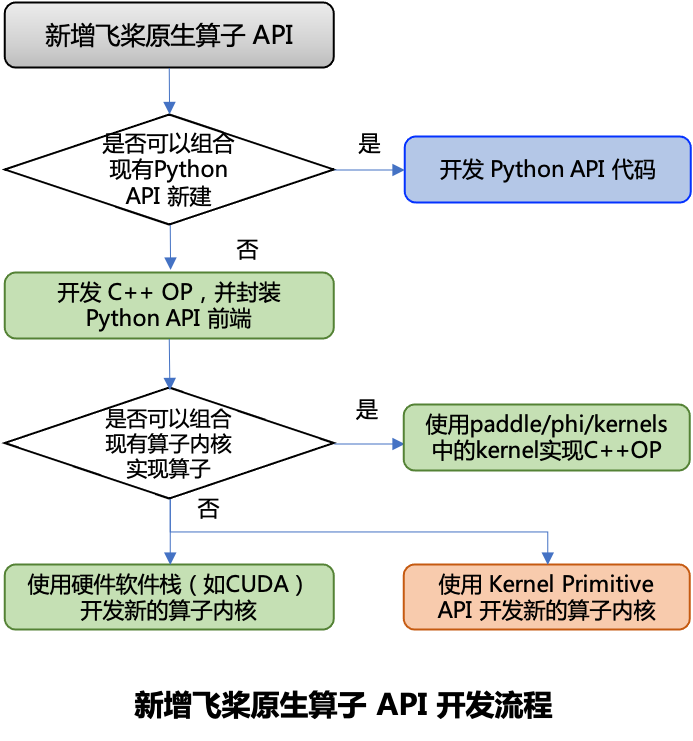
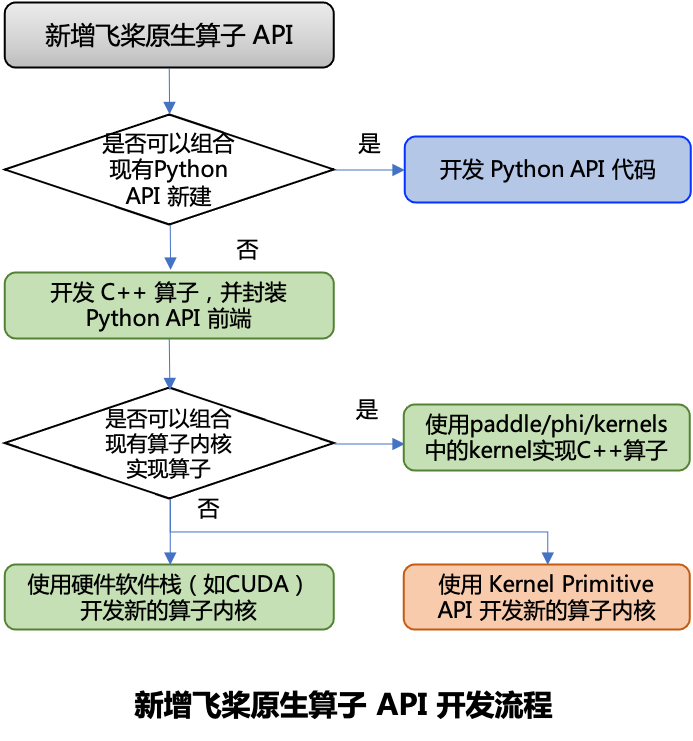
fix bugs
fix bugs

Changed region(s): [[0.0606, 0.3725, 0.4242, 0.4345], [0.6061, 0.5897, 0.9697, 0.6208]]

diff --git a/docs/dev_guides/api_contributing_guides/new_python_api_cn.md b/docs/dev_guides/api_contributing_guides/new_python_api_cn.md
@@ -2,8 +2,8 @@
 
 新增飞桨 API 主要包含两种情况：
 
-1. 不需要开发新的 C++ 算子（Operator，OP），可以用其他 Python API 组合得到新的 API，只写 Python 代码即可。
-2. 需要开发新的 C++ 算子，需要用 C++ 开发 OP 实现代码、再封装 Python API 代码。
+1. 不需要开发新的 C++ 算子，可以用其他 Python API 组合得到新的 API，只写 Python 代码即可。
+2. 需要开发新的 C++ 算子，需要用 C++ 开发算子实现代码、再封装 Python API 代码。
 
 两种情况下均有 Python 端的开发工作。本文将介绍开发新的飞桨 API 时，需要完成的 Python 端开发内容以及注意事项。
 
@@ -81,14 +81,14 @@ def zeros(shape, dtype=None, name=None):
 
 如果 API 的实现中需要调用 C++ 算子，则需要分别实现动态图分支和静态图分支的代码。
 
-接下来以 [paddle.trace](../../api/paddle/trace_cn.html) API 的实现代码为例（示例代码路径：[python/paddle/tensor/math.py](https://github.com/PaddlePaddle/Paddle/blob/develop/python/paddle/tensor/math.py#L2790)），分别介绍动态图分支和静态图分支的开发要点：
+接下来以 [paddle.trace](../../api/paddle/trace_cn.html) API 的实现代码为例（示例代码路径：[python/paddle/tensor/math.py](https://github.com/PaddlePaddle/Paddle/blob/develop/python/paddle/tensor/math.py#L2784)），分别介绍动态图分支和静态图分支的开发要点：
 
 ```python
 def trace(x, offset=0, axis1=0, axis2=1, name=None):
     # 为了突出重点，省略部分代码
     # 动态图分支，直接调用算子对应的 Python C 函数
     if in_dygraph_mode():
-        return _C_ops.final_state_trace( x, offset, axis1, axis2 )
+        return _C_ops.trace( x, offset, axis1, axis2 )
 
     # 静态图分支
     ## 输入参数检查
@@ -115,13 +115,13 @@ def trace(x, offset=0, axis1=0, axis2=1, name=None):
 ```python
     # 动态图分支，直接调用算子对应的 Python C 函数
     if in_dygraph_mode():
-        return _C_ops.final_state_trace( x, offset, axis1, axis2 )
+        return _C_ops.trace( x, offset, axis1, axis2 )
 ```
 
-动态图分支的写法一般是调用 C++ 算子对应的 Python C 函数，示例中调用名为 `trace` 的 算子，使用 `_C_ops.final_state_trace`，然后传入参数。
+动态图分支的写法一般是调用 C++ 算子对应的 Python C 函数，示例中调用名为 `trace` 的 算子，使用 `_C_ops.trace`，然后传入参数。
 
   - `_C_ops` 是 [python/paddle/_C_ops.py](https://github.com/PaddlePaddle/Paddle/blob/develop/python/paddle/_C_ops.py)，其实现了从 Paddle 编译得到的二进制文件中 import  C++ 算子对应的 Python C 函数。
-  - `final_state_trace`是 `trace` 算子的 Python C 函数名。Python C 函数的命名方式为 `final_state_ + 算子名`。
+  - `trace` 是算子的 Python C 函数名。Python C 函数的命名直接采用算子名。
   - 参数 `( x, offset, axis1, axis2 )`需按照 [YAML 配置文件](https://github.com/PaddlePaddle/Paddle/blob/develop/paddle/phi/api/yaml/api.yaml#L185) 中定义的输入参数顺序传入，C++ 算子的输入、输出和属性等描述是通过 YAML 配置文件定义的，具体可参见 [开发 C++ 算子](new_cpp_op_cn.html) 章节介绍。
 
 > 注意：由于目前飞桨动态图正处在重构升级阶段，所以现有算子的代码会分别有新旧动态图两个代码分支，其中 `in_dygraph_mode()` 表示新动态图分支（默认），`_in_legacy_dygraph()`为旧动态图分支，**在新增算子时无需添加旧动态图分支代码**。
@@ -253,7 +253,7 @@ from a import f # it's ok, too
 
 **（2）具体做法**
 
-  - 一些常用的 Paddle API 可先参考上述方法建立别名，比如前文示例中  `paddle.trace `  API 的 `trace` 函数定义在 [Python/paddle/tensor/math.py](https://github.com/PaddlePaddle/Paddle/blob/develop/python/paddle/tensor/math.py#L2790) 中，又在 [Python/paddle/tensor/__init__.py](https://github.com/PaddlePaddle/Paddle/blob/develop/python/paddle/tensor/__init__.py) 中被 import，并且也在 [Python/paddle/__init__.py](https://github.com/PaddlePaddle/Paddle/blob/develop/python/paddle/__init__.py) 中被 import。
+  - 一些常用的 Paddle API 可先参考上述方法建立别名，比如前文示例中  `paddle.trace `  API 的 `trace` 函数定义在 [Python/paddle/tensor/math.py](https://github.com/PaddlePaddle/Paddle/blob/develop/python/paddle/tensor/math.py#L2784) 中，又在 [Python/paddle/tensor/__init__.py](https://github.com/PaddlePaddle/Paddle/blob/develop/python/paddle/tensor/__init__.py) 中被 import，并且也在 [Python/paddle/__init__.py](https://github.com/PaddlePaddle/Paddle/blob/develop/python/paddle/__init__.py) 中被 import。
 
 ```python
 # Python/paddle/tensor/math.py
@@ -376,28 +376,30 @@ class TestHardtanhAPI(unittest.TestCase):
 **开发要点：**
 
 
-  - 无论是用其他 Python API 组合得到新的 API，还是封装新开发 C++ OP 得到的新 API，都必须添加动态图和静态图的测试用例，确保对应情况工作正常，结果符合预期。
-  - 通常情况下新增 Python API 的单元测试，可以不必测试反向计算功能，因为在 C++ OP 的单元测试中会包含反向算子功能的测试。
+  - 无论是用其他 Python API 组合得到新的 API，还是封装新开发 C++ 算子得到的新 API，都必须添加动态图和静态图的测试用例，确保对应情况工作正常，结果符合预期。
+  - 通常情况下新增 Python API 的单元测试，可以不必测试反向计算功能，因为在 C++ 算子的单元测试中会包含反向算子功能的测试。
   - 用 NumPy/SciPy 的实现对比时，一般用 `self.assertTrue(numpy.allclose(actual, desired))` 或者 `numpy.testing.assert_allclose(actual, desired)` 来进行数值对比。其中，`numpy.testing.assert_allclose` 相对误差和绝对误差是 `rtol=1e-07, atol=0`；`numpy.allclose` 的相对误差和绝对误差是 `rtol=1e-05, atol=1e-08`，前者比后者更严格。一般进行单元测试的时候，都使用默认的误差阈值，如需设置自定义的阈值，需要说明原因。
   - 因为单元测试各个 case 的运行次序是不确定的，为了保证不同的测试 case 运行在正确的运行模式（动态图/静态图）上，常见的做法有：
     - 在每个测试 case 的起始部分，显式切换 paddle 的运行模式，用`paddle.enable_static` 和 `paddle.disable_static` 分别激活和取消静态图模式。如前文代码所示，在 `test_static_api` 和 `test_dygraph_api` 的开头分别切换了状态。
+
     - 将静态图和动态图测试定义为不以 `test` 开头的函数（如 [test_l1_loss.py](https://github.com/PaddlePaddle/Paddle/blob/develop/python/paddle/fluid/tests/unittests/test_l1_loss.py#L77) 中定义为 `run_imperative`、`run_static` 函数)，然后定义一个 test 开头的函数，切换不同的状态去运行它。
 
 
-```python
- def test_cpu(self):
-     # 关闭静态图模式，测试动态图模式
-     paddle.disable_static(place=paddle.fluid.CPUPlace())
-     self.run_imperative()
-     # 开启静态图模式，测试静态图模式
-     paddle.enable_static()
+      ```python
+       def test_cpu(self):
+           # 关闭静态图模式，测试动态图模式
+           paddle.disable_static(place=paddle.fluid.CPUPlace())
+           self.run_imperative()
+           # 开启静态图模式，测试静态图模式
+           paddle.enable_static()
 
-     with fluid.program_guard(fluid.Program()):
-         self.run_static()
-```
+           with fluid.program_guard(fluid.Program()):
+               self.run_static()
+      ```
 
-  - 将动态图和静态图的测试 case 分在不同的 Python 文件中，`import paddle` 后在模块级别设置 paddle 的运行模式。比如 [test_rnn_cells.py](https://github.com/PaddlePaddle/Paddle/blob/develop/python/paddle/fluid/tests/unittests/rnn/test_rnn_cells.py) 和 [test_rnn_cells_static.py](https://github.com/PaddlePaddle/Paddle/blob/develop/python/paddle/fluid/tests/unittests/rnn/test_rnn_cells_static.py) 的做法。
-  - 在测试模块级别设定 paddle 的运行模式为静态图（一般是在一个模块的开始，而不是写在 `if __name__=="__main__":` 里)。然后在需要使用动态图的 case 里，将动态图部分的代码至于 `dygraph.guard` 上下文管理器内。这是老式的写法，目前不再推荐这么写，但已有的代码库中也存在这样的模式。
+    - 将动态图和静态图的测试 case 分在不同的 Python 文件中，`import paddle` 后在模块级别设置 paddle 的运行模式。比如 [test_rnn_cells.py](https://github.com/PaddlePaddle/Paddle/blob/develop/python/paddle/fluid/tests/unittests/rnn/test_rnn_cells.py) 和 [test_rnn_cells_static.py](https://github.com/PaddlePaddle/Paddle/blob/develop/python/paddle/fluid/tests/unittests/rnn/test_rnn_cells_static.py) 的做法。
+
+    - 在测试模块级别设定 paddle 的运行模式为静态图（一般是在一个模块的开始，而不是写在 `if __name__=="__main__":` 里)。然后在需要使用动态图的 case 里，将动态图部分的代码至于 `dygraph.guard` 上下文管理器内。这是老式的写法，目前不再推荐这么写，但已有的代码库中也存在这样的模式。
 
 
 ### 3.3 运行单元测试

diff --git a/docs/dev_guides/api_contributing_guides/read_before_contributing_cn.md b/docs/dev_guides/api_contributing_guides/read_before_contributing_cn.md
@@ -6,7 +6,7 @@
 
 飞桨框架 API 前端采用 Python 语言，以便获得更好的编程体验；后端的计算逻辑实现采用 C++ 语言，调用底层算子内核 （kernel）函数实现计算逻辑，以便获得更好的运行性能，如下图所示。
 
-开发一个新的飞桨原生算子（Operator，OP），通常需要先开发 C++ OP，即通过 Yaml 配置定义算子描述、C++ 开发算子 kernel，再封装 Python API；如果要新增的算子可以用其他 Python API 组合得到，则可以只开发 Python API 代码。
+开发一个新的飞桨原生算子，通常需要先开发 C++ 算子，即通过 Yaml 配置定义算子描述、C++ 开发算子 kernel，再封装 Python API；如果要新增的算子可以用其他 Python API 组合得到，则可以只开发 Python API 代码。
 
 - 使用 C++ 定义算子，开发门槛较高，需有一定 C++ 或 CUDA 等软件栈开发基础，但是具有性能优势；
 - 使用 Python API 组合方式，只需 Python 编码，代码实现相对简单灵活，但会引入 Python 调度开销，影响性能；如果当前飞桨框架提供的基础算子 API 无法满足需求，仍然需要使用 C++ 实现算子。
@@ -28,10 +28,10 @@
 
 当 API 设计文档合入后，开发者即可进行代码开发。此过程请参考相应的开发规范，包括如下步骤：
 
-- 如果新增 API 不需要开发新的 C++ OP，可以用其他 Python API 组合得到新的 API，请参考 [开发 API Python 端](new_python_api_cn.html) 章节完成，包括开发 Python 代码、单元测试代码和 API 文档等步骤。
-- 如果新增 API 需要开发新的 C++ OP，请参考 [开发 C++ 算子](new_cpp_op_cn.html) 章节完成，包括开发 OP 实现代码、封装 Python API 代码、单元测试代码和 API 文档等步骤。
-  - 在 paddle/phi/kernels 目录下存放了飞桨框架已经实现的不同硬件的算子内核，可供开发 C++ OP 时调用。
-  - 有时也需要自己开发新的算子内核（OP Kernel），这时可能需要使用硬件支持的软件栈（如 CUDA）来实现，或者使用飞桨框架提供的 Kernel Primitive API 来实现，后者具体介绍请参见 [Kernel Primitive API](../op_optimization/kernel_primitive_api/index_cn.html) 章节。
+- 如果新增 API 不需要开发新的 C++ 算子，可以用其他 Python API 组合得到新的 API，请参考 [开发 API Python 端](new_python_api_cn.html) 章节完成，包括开发 Python 代码、单元测试代码和 API 文档等步骤。
+- 如果新增 API 需要开发新的 C++ 算子，请参考 [开发 C++ 算子](new_cpp_op_cn.html) 章节完成，包括开发算子实现代码、封装 Python API 代码、单元测试代码和 API 文档等步骤。
+  - 在 paddle/phi/kernels 目录下存放了飞桨框架已经实现的不同硬件的算子内核，可供开发 C++ 算子 时调用。
+  - 有时也需要自己开发新的算子内核，这时可能需要使用硬件支持的软件栈（如 CUDA）来实现，或者使用飞桨框架提供的 Kernel Primitive API 来实现，后者具体介绍请参见 [Kernel Primitive API](../op_optimization/kernel_primitive_api/index_cn.html) 章节。
 
 值得注意的是，代码开发完成后，请确保通过了单元测试和 CI 测试。
 
